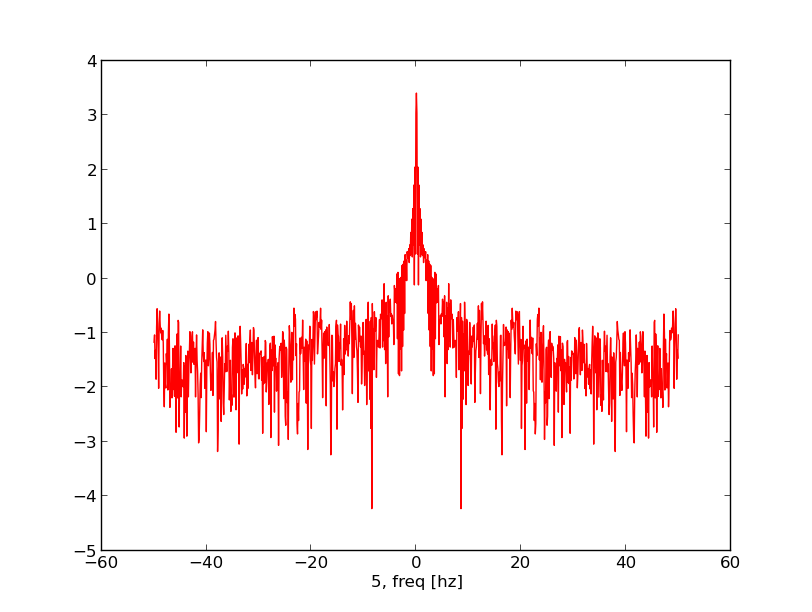
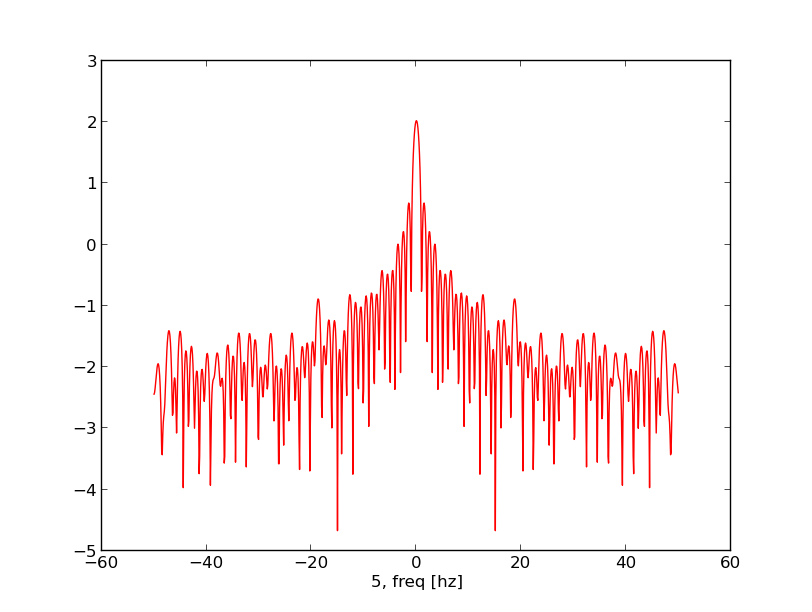
better figures for report

diff --git a/w_lists.py b/w_lists.py
@@ -123,11 +123,13 @@ class weight_eval_p(object):
 		for i in range(7):
 		#	print fourier_filter.return_common_elements(sum_of_Ef[i], sum(sum_of_Ef[i])/len(sum_of_Ef[i]), 20, 0.5)
 		#	print len(sum_of_Ef[i])
-			self.sum_of_Ef[i] = fourier_filter.rep_filter(self.sum_of_Ef[i], 50)
 		#	sum_of_Ef[i] = fourier_filter.fft_filter_find_fundamentals(sum_of_Ef[i], 0.01, (len(sum_of_Ef[i])//100))
 		#	sum_of_Ef[i] = fourier_filter.fft_filter_find_last_fundamentals(sum_of_Ef[i], 0.01, (len(sum_of_Ef[i])//30))
 		#	sum_of_Ef[i] = fourier_filter.fft_filter_find_fundamentals(sum_of_Ef[i], 0.01, (len(sum_of_Ef[i])//31))
-		#	sum_of_Ef[i] = fourier_filter.moving_average(sum_of_Ef[i], 4,0.01, i)
+
+		##	self.sum_of_Ef[i] = fourier_filter.moving_average(self.sum_of_Ef[i], 10,0.05, i)
+		##	self.sum_of_Ef[i] = fourier_filter.fft_filter(self.sum_of_Ef[i], 0.05, 1)
+
 		#	sum_of_Ef[i] = fourier_filter.moving_average(sum_of_Ef[i], 100,0.01, i)
 		#	sum_of_Ef[i] = fourier_filter.moving_average(sum_of_Ef[i], 125,0.01, i)
 		#	sum_of_Ef[i] = fourier_filter.moving_average(sum_of_Ef[i], 150,0.01, i)
@@ -148,18 +150,15 @@ def spectral_subtraction(WEP1, WEP2, dt):
 	WEP2.get_sum_of_torque_values_no_phase()
 	kep1 = np.hanning(len(WEP1.M))
 	kep2 = np.hanning(len(WEP2.M))
+	WEP1.M = fourier_filter.fft_filter(WEP1.M, 0.05, 50)
+	WEP2.M = fourier_filter.fft_filter(WEP2.M, 0.05, 50)
 	for i in range(len(WEP1.M)):
 		WEP1.M[i] = WEP1.M[i]*kep1[i]
 	for i in range(len(WEP2.M)):
 		WEP2.M[i] = WEP2.M[i]*kep2[i]
-	WEP1.M = fourier_filter.fft_filter(WEP1.M, 0.05, 50)
-	WEP1.f = fftfreq(len(WEP1.M), dt)
-	WEP2.M = fourier_filter.fft_filter(WEP2.M, 0.05, 50)
-	WEP2.f = fftfreq(len(WEP2.M), dt)
 	result = [0]*len(WEP1.M)
 	for i in range(len(WEP1.M)):
 		result[i] = abs(WEP1.M[i]) - abs(WEP2.M[i])
-	result = irfft(result)
 	k = np.hanning(len(result))
 	for i in range(len(result)):
 		result[i] = k[i]*result[i]
@@ -180,15 +179,17 @@ def spectral_subtraction(WEP1, WEP2, dt):
 def main():
 	WEP = weight_eval_p()
 	WEP2 = weight_eval_p()
+	SPS = spectral_subtraction(WEP, WEP2, 0.05)
+	SPS = fourier_filter.moving_average(SPS, 50,0.01, 0)
         fourier_filter.show_fig(spectral_subtraction(WEP, WEP2, 0.05), 0.05, 0)
-	fourier_filter.show_fig(ifft(WEP.M), 0.05, 0)	
-	fourier_filter.show_fig(ifft(WEP2.M), 0.05, 0)		
+	fourier_filter.show_fig((WEP.M), 0.05, 0)	
+	fourier_filter.show_fig((WEP2.M), 0.05, 0)
+	fourier_filter.show_fig(SPS, 0.05, 0)		
  	K = [0]*len(WEP.M)
 	for i in range(len(WEP.M)):
 		K[i] = abs(WEP.M[i]) - abs(WEP2.M[i])
-	K = ifft(K)
 	fourier_filter.show_fig(K, 0.05, 0)
-	K = fourier_filter.fft_filter_find_fundamentals(K, 0.05, 120)
+	K = fourier_filter.fft_filter_find_fundamentals(K, 0.05, 4)
 	fourier_filter.show_fig(K, 0.05, 0)
 	print sum(K)/len(K)
 	WEP.filter_routine_1(0.01)

diff --git a/fourier_filter.py b/fourier_filter.py
@@ -49,10 +49,10 @@ def return_average(args):
 
 # accept a band centered around 0 in the transform
 def fft_filter(ListA, dt, band):
-	F = rfft(ListA, n=3000)
+	F = rfft(ListA)
 	f = fftfreq(len(F),dt)
 	F_filtered = array([filter_rule(x,freq, band) for x,freq in zip(F,f)])
-	print F_filtered
+	F_filtered = irfft(F_filtered)
 	return F_filtered
 def filter_phase(ListA, dt, band):
 	F = rfft(ListA, n=3000)
